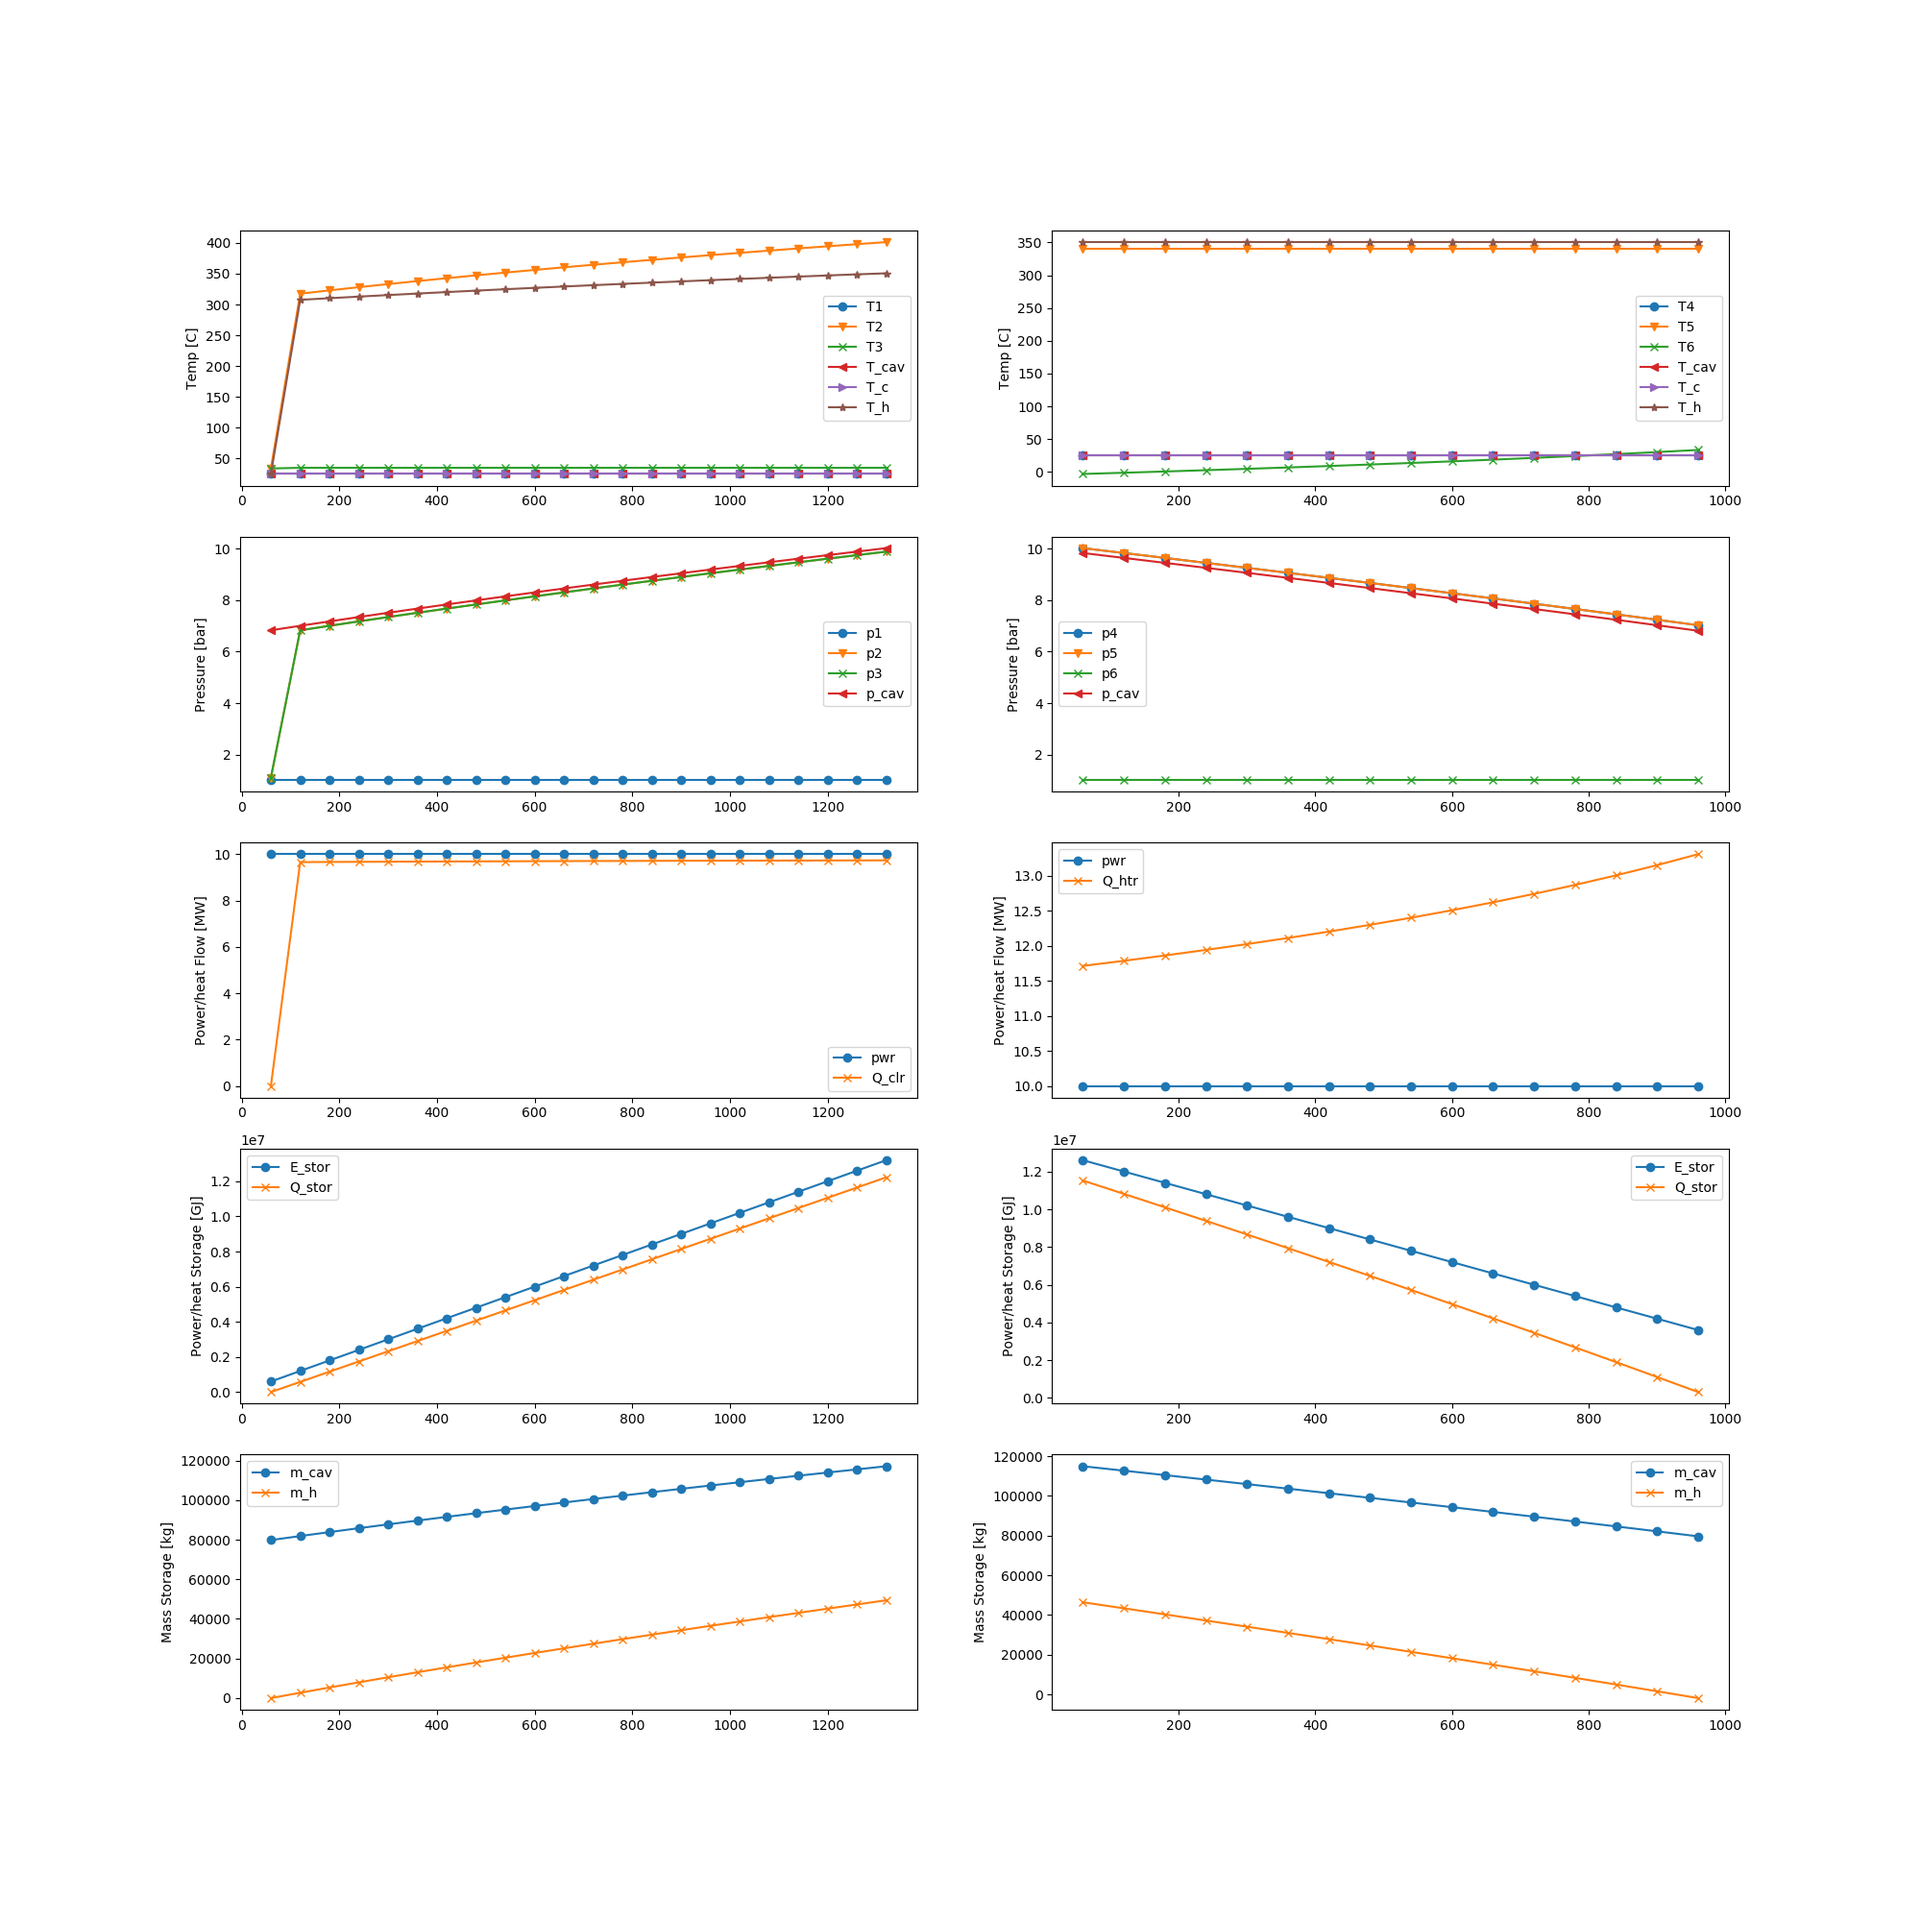
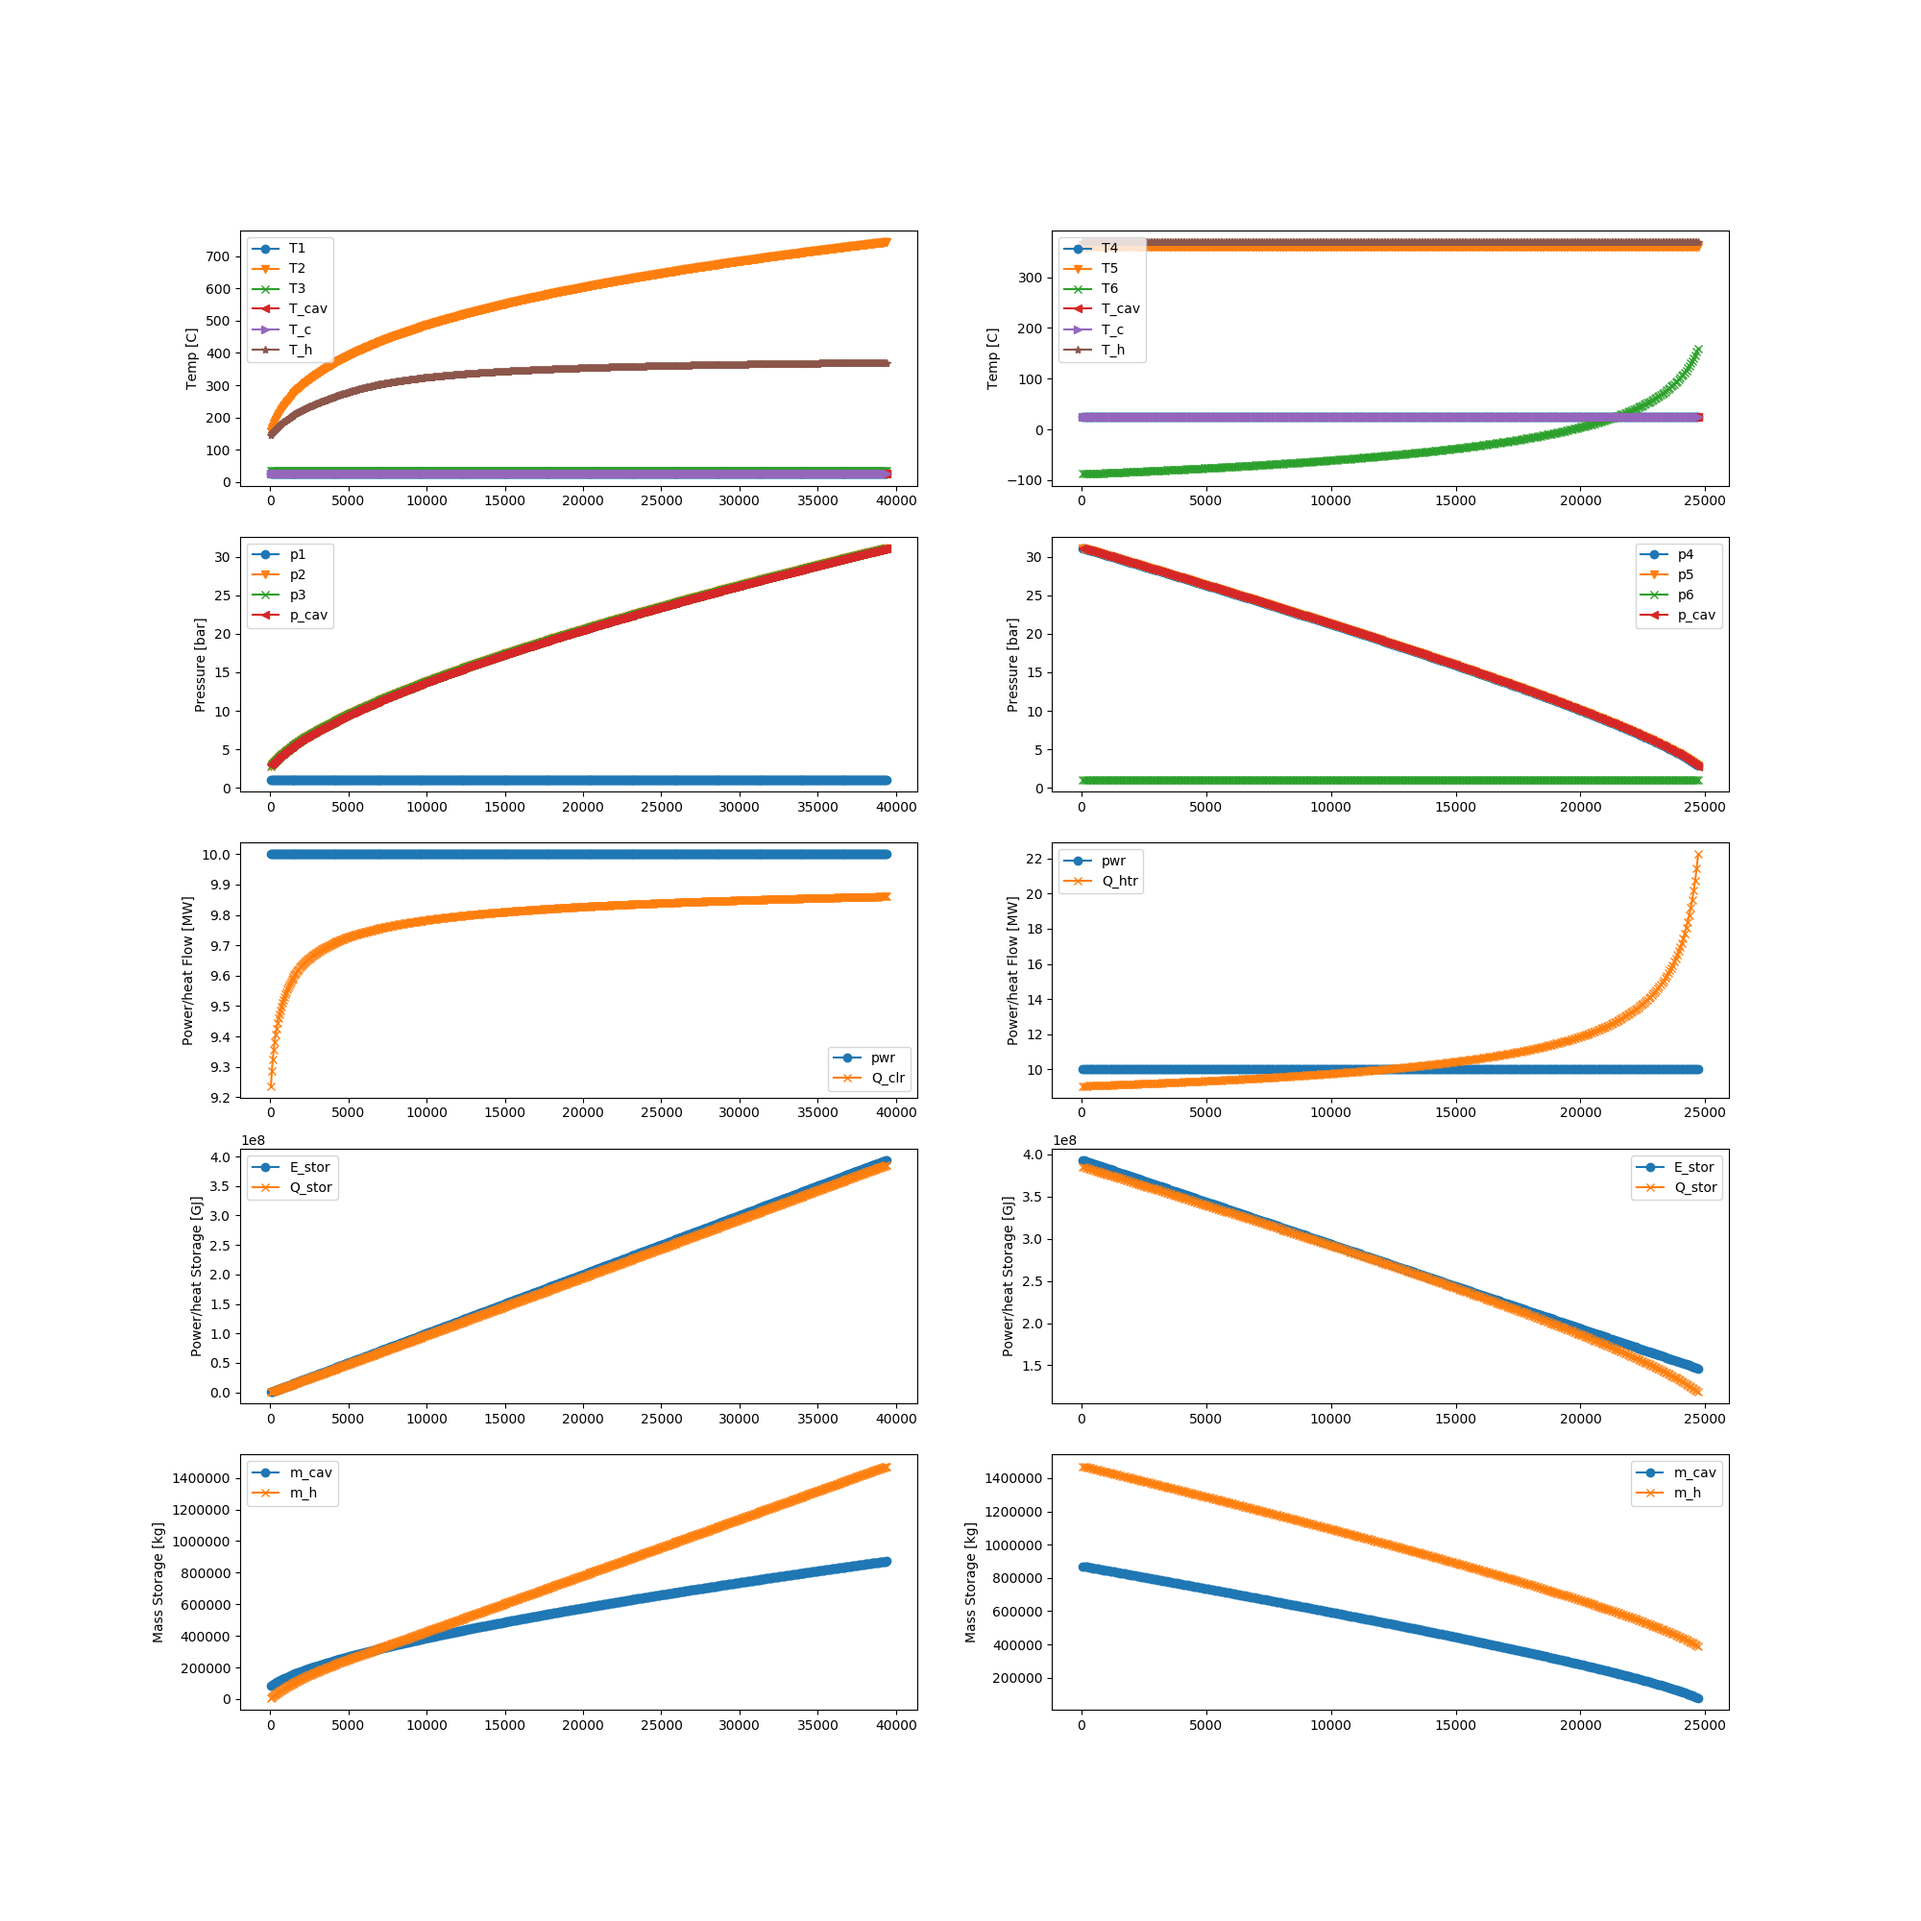
trb design module

diff --git a/examples/0D_sizing/create_figures_for_poster.py b/examples/0D_sizing/create_figures_for_poster.py
@@ -1,0 +1,188 @@
+import pandas as pd
+import seaborn as sns
+import matplotlib.pyplot as plt
+sns.set_style('white')
+
+#================================
+# Transient Simulation
+#================================
+sns.set_style('white')
+
+# Import results
+df = pd.read_csv("single_run_results.csv")
+
+
+f, ax = plt.subplots(nrows=3, ncols=2, figsize=(8, 5))
+
+# ----
+# Charging
+# ----
+x = self.dfC['t']
+# Temp
+convert = 273.15
+ax[0, 0].plot(x, self.dfC['T1'] - convert, label='T1', marker='o')
+ax[0, 0].plot(x, self.dfC['T2'] - convert, label='T2', marker='v')
+ax[0, 0].plot(x, self.dfC['T3'] - convert, label='T3', marker='x')
+ax[0, 0].plot(x, self.dfC['T_cav'] - convert, label='T_cav', marker='<')
+ax[0, 0].plot(x, self.dfC['T_c'] - convert, label='T_c', marker='>')
+ax[0, 0].plot(x, self.dfC['T_h'] - convert, label='T_h', marker='*')
+ax[0, 0].legend()
+ax[0, 0].set_ylabel('Temp [C]')
+# Press
+convert = 1E-5
+ax[1, 0].plot(x, self.dfC['p1'] * convert, label='p1', marker='o')
+ax[1, 0].plot(x, self.dfC['p2'] * convert, label='p2', marker='v')
+ax[1, 0].plot(x, self.dfC['p3'] * convert, label='p3', marker='x')
+ax[1, 0].plot(x, self.dfC['p_cav'] * convert, label='p_cav', marker='<')
+ax[1, 0].legend()
+ax[1, 0].set_ylabel('Pressure [bar]')
+# Mass Storage
+ax[4, 0].plot(x, self.dfC['m_cav'], label='m_cav', marker='o')
+ax[4, 0].plot(x, self.dfC['m_h'], label='m_h', marker='x')
+ax[4, 0].legend()
+ax[4, 0].set_ylabel('Mass Storage [kg]')
+
+# ----
+# Discharging
+# ----
+x = self.dfD['t']
+# Temp
+convert = 273.15
+ax[0, 1].plot(x, dfD['T4'] - convert, label='T4', marker='o')
+ax[0, 1].plot(x, dfD['T5'] - convert, label='T5', marker='v')
+ax[0, 1].plot(x, dfD['T6'] - convert, label='T6', marker='x')
+ax[0, 1].plot(x, dfD['T_cav'] - convert, label='T_cav', marker='<')
+ax[0, 1].plot(x, dfD['T_c'] - convert, label='T_c', marker='>')
+ax[0, 1].plot(x, dfD['T_h'] - convert, label='T_h', marker='*')
+ax[0, 1].legend()
+ax[0, 1].set_ylabel('Temp [C]')
+
+# Press
+convert = 1E-5
+ax[1, 1].plot(x, dfD['p4'] * convert, label='p4', marker='o')
+ax[1, 1].plot(x, dfD['p5'] * convert, label='p5', marker='v')
+ax[1, 1].plot(x, dfD['p6'] * convert, label='p6', marker='x')
+ax[1, 1].plot(x, dfD['p_cav'] * convert, label='p_cav', marker='<')
+ax[1, 1].legend()
+ax[1, 1].set_ylabel('Pressure [bar]')
+# Mass Storage
+ax[4, 1].plot(x, dfD['m_cav'], label='m_cav', marker='o')
+ax[4, 1].plot(x, dfD['m_h'], label='m_h', marker='x')
+ax[4, 1].legend()
+ax[4, 1].set_ylabel('Mass Storage [kg]')
+
+# Save
+plt.savefig(savename + ".png", DPI=1000)
+
+
+
+
+
+#================================
+
+#================================
+
+#
+
+# %%=============================================================================#
+# Figure Monte Carlo Simulation
+results_filename = "results_monte_carlo.csv"
+savename = "Poster_Fig_Monte_Carlo.png"
+# =============================================================================#
+sns.set_style('white')
+
+# Import results
+df = pd.read_csv("results_monte_carlo.csv")
+
+# Filter Results
+df = df[(df.Ebal >= 0.0) & (df.Qbal >= 0.0)& (df.RTE <= 90.0)]
+
+# Prepare results for plotting
+# Identify Target Configurations
+RTE_Goal = 70.0
+Ein_Goal = 100.0
+ind_RTE = df.loc[:,'RTE']>RTE_Goal
+ind_Ein = df.loc[:,'E_in']>Ein_Goal
+
+df.loc[:,'Goal'] = 'Neither'
+df.loc[ind_RTE,'Goal'] = 'RTE'
+df.loc[ind_Ein,'Goal'] = 'Ein'
+df.loc[ind_RTE & ind_Ein,'Goal'] = 'RTE + Ein'
+
+# Determine Design condition and mark as such
+design_eff = df.loc[ind_Ein,'RTE'].max()
+ind_design = df.loc[:,'RTE'] == design_eff
+df.loc[ind_design,'Goal'] = 'Design'
+
+# Plotting Inputs
+x_vars = ["p_min", "p_max","V"]
+x_labels = ["Min Pressure (bar)","Max Pressure (bar)","Cavern Volume (1E3 m3)"]
+x_converts = [1,1,1E-3]
+
+y_vars = ["RTE","E_in"]
+y_labels = ["Round Trip Efficiency (%)", "Storage Capacity (MWh)"]
+y_converts = [1,1]
+
+series_var = 'Goal'
+series_vals = ['RTE','Ein','Neither','Design']
+series_labels = ['RTE Goal','Storage Goal','Neither','Design']
+series_colors = sns.color_palette()
+series_markers = ['x', '+','o','*']
+
+DPI = 1200
+
+# Create Plots
+nrows = len(y_vars)
+ncols = len(x_vars)
+
+f, ax = plt.subplots(nrows, ncols,figsize=(8,5))
+
+# Iterate Rows (Y variables)
+for i,y_var,y_label,y_convert in zip(range(nrows),y_vars,y_labels,y_converts):
+
+    # Itereate Columns (X variables)
+    for j, x_var, x_label, x_convert in zip(range(ncols), x_vars, x_labels, x_converts):
+
+        # Iterate Series
+        for series_val,label,color,marker in zip(series_vals,series_labels,series_colors,series_markers):
+
+            # Select entries of interest
+            df2 = df[(df.loc[:,series_var] == series_val)]
+
+            # Plot
+            x = df2.loc[:, x_var] * x_convert
+            y = df2.loc[:, y_var] * y_convert
+            ax[i,j].scatter(x.values, y.values, c=color, marker=marker, label=label)
+
+        # X-axis Labels (Only bottom)
+        if i == nrows-1:
+            ax[i,j].set_xlabel(x_label)
+        else:
+            ax[i,j].get_xaxis().set_visible(False)
+
+        # Y-axis labels (Only left side)
+        if j == 0:
+            ax[i,j].set_ylabel(y_label)
+            ax[i,j].yaxis.set_label_coords(-0.25, 0.5)
+        else:
+            ax[i,j].get_yaxis().set_visible(False)
+
+        # Set X and Y Limits
+        # ax.set_xlim(left=xlims[0], right=xlims[1])
+        # ax.set_ylim(bottom=ylims[0],top=ylims[1])
+
+        # if len(xticks) > 2:
+        #     ax.xaxis.set_ticks(xticks)
+        # #        ax.set_xticks(xticks)
+        # #        ax.set_xticklabels = xtick_labels
+
+
+# Legend (only for middle bottom)
+leg = ax[nrows-1,ncols/2].legend(bbox_to_anchor=(2.0, -0.2), ncol=len(series_labels), prop={'size': 12})
+
+# Adjust layout
+plt.tight_layout()
+
+# Save Figure
+plt.savefig(savename, dpi=DPI, bbox_inches="tight")
+plt.close()

diff --git a/estorage/acaes_idealgas_0D.py b/estorage/acaes_idealgas_0D.py
@@ -375,5 +375,72 @@ class ACAES_IDEALGAS_0D:
         # Save
         plt.savefig(savename + ".png", DPI=1000)
 
+    def create_pretty_plots(self, savename='Results'):
+        f, ax = plt.subplots(nrows=3, ncols=2, figsize=(10, 6))
+        # ----
+        # Charging
+        # ----
+        x = self.dfC['t']/60.0
+        # Temp
+        convert = 273.15
+        ax[0, 0].plot(x, self.dfC['T1'] - convert, label='Compressor - In', marker='o')
+        ax[0, 0].plot(x, self.dfC['T2'] - convert, label='Compressor - Out', marker='v')
+        # ax[0, 0].plot(x, self.dfC['T3'] - convert, label='T3', marker='x')
+        ax[0, 0].plot(x, self.dfC['T_cav'] - convert, label='Cavern', marker='<')
+        ax[0, 0].plot(x, self.dfC['T_c'] - convert, label='HTF - Cold', marker='>')
+        ax[0, 0].plot(x, self.dfC['T_h'] - convert, label='HTF - Hot', marker='*')
+        ax[0, 0].legend()
+        ax[0, 0].set_ylabel('Temp [C]')
+        # Press
+        convert = 1E-5
+        ax[1, 0].plot(x, self.dfC['p1'] * convert, label='Air - In', marker='o')
+        # ax[1, 0].plot(x, self.dfC['p2'] * convert, label='p2', marker='v')
+        # ax[1, 0].plot(x, self.dfC['p3'] * convert, label='p3', marker='x')
+        ax[1, 0].plot(x, self.dfC['p_cav'] * convert, label='Cavern', marker='<')
+        ax[1, 0].legend()
+        ax[1, 0].set_ylabel('Pressure [bar]')
+        # Mass Storage
+        convert = 1E-6
+        ax[2, 0].plot(x, self.dfC['m_cav']*convert, label='Cavern', marker='o')
+        ax[2, 0].plot(x, self.dfC['m_h']*convert, label='HTF', marker='x')
+        ax[2, 0].legend()
+        ax[2, 0].set_ylabel('Mass Storage [Gg]')
+        ax[2, 0].set_xlabel('Time [hr]')
+
+        # ----
+        # Discharging
+        # ----
+        x = self.dfD['t']
+        # Temp
+        convert = 273.15
+        # ax[0, 1].plot(x, self.dfD['T4'] - convert, label='T4', marker='o')
+        ax[0, 1].plot(x, self.dfD['T5'] - convert, label='Turbine - In', marker='v')
+        ax[0, 1].plot(x, self.dfD['T6'] - convert, label='Turbine - Out', marker='x')
+        ax[0, 1].plot(x, self.dfD['T_cav'] - convert, label='Cavern', marker='<')
+        ax[0, 1].plot(x, self.dfD['T_c'] - convert, label='HTF - Cold', marker='>')
+        ax[0, 1].plot(x, self.dfD['T_h'] - convert, label='HTF - Hot', marker='*')
+        ax[0, 1].legend()
+        ax[0, 1].set_ylabel('Temp [C]')
+
+        # Press
+        convert = 1E-5
+        # ax[1, 1].plot(x, self.dfD['p4'] * convert, label='p4', marker='o')
+        # ax[1, 1].plot(x, self.dfD['p5'] * convert, label='p5', marker='v')
+        ax[1, 1].plot(x, self.dfD['p6'] * convert, label='Air - Out', marker='x')
+        ax[1, 1].plot(x, self.dfD['p_cav'] * convert, label='Cavern', marker='<')
+        ax[1, 1].legend()
+        ax[1, 1].set_ylabel('Pressure [bar]')
+        # Mass Storage
+        convert = 1E-6
+        ax[2, 1].plot(x, self.dfD['m_cav']*convert, label='Cavern', marker='o')
+        ax[2, 1].plot(x, self.dfD['m_h']*convert, label='HTF', marker='x')
+        ax[2, 1].legend()
+        ax[2, 1].set_ylabel('Mass Storage [Mg]')
+        ax[2, 1].set_xlabel('Time [hr]')
+
+        # Save
+        plt.tight_layout()
+        plt.savefig(savename + ".png", DPI=1200)
+
 # TO ADD
 # Check energy balance

diff --git a/examples/0D_sizing/run_single.py b/examples/0D_sizing/run_single.py
@@ -13,19 +13,22 @@ inputs = pd.Series(index=['cmp_eff', 'trb_eff', 'pwr', 'V', 'p_min', 'PR'])
 
 # Fixed Inputs
 inputs['cmp_eff'] = 0.8  # fraction
-inputs['trb_eff'] = 0.88  # fraction
-inputs['pwr'] = 10  # MW
+inputs['trb_eff'] = 0.895  # fraction
+inputs['pwr'] = 10.0  # MW
 
 #  Design Variables
-inputs['V'] = 1.E4  # m3
-inputs['p_min'] = 1.1  # bar
-inputs['PR'] = 10.  # ratio
+inputs['V'] = 2.4E4  # m3
+inputs['p_min'] = 2.8  # bar
+inputs['p_max'] = 31.1  # ratio
 
 # ==============
 # Run Simulation
 # ==============
 acaes = ACAES_IDEALGAS_0D(cmp_eff=inputs['cmp_eff'], trb_eff=inputs['trb_eff'], pwr=inputs['pwr'],
-                          V=inputs['V'], p_min=inputs['p_min'], PR=inputs['PR'], debug=True)
+                          V=inputs['V'], p_min=inputs['p_min'], p_max=inputs['p_max'], debug=True)
 results = acaes.run()
 print results
 acaes.create_plots('single_run')
+acaes.create_pretty_plots('single_run2')
+
+results.to_csv('single_run_results.csv')
